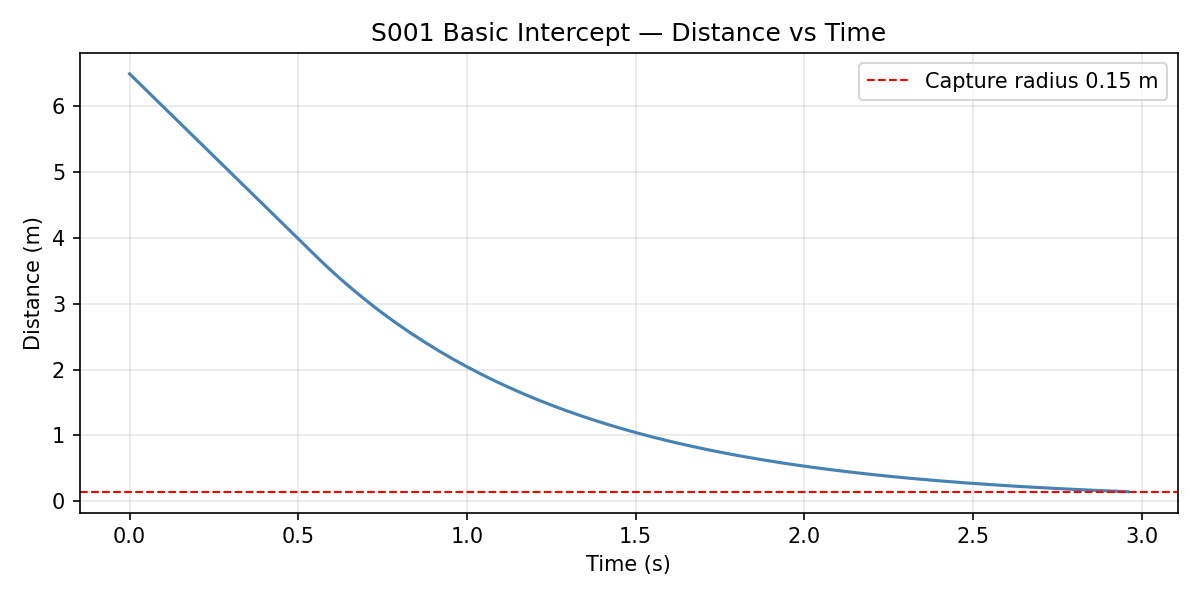
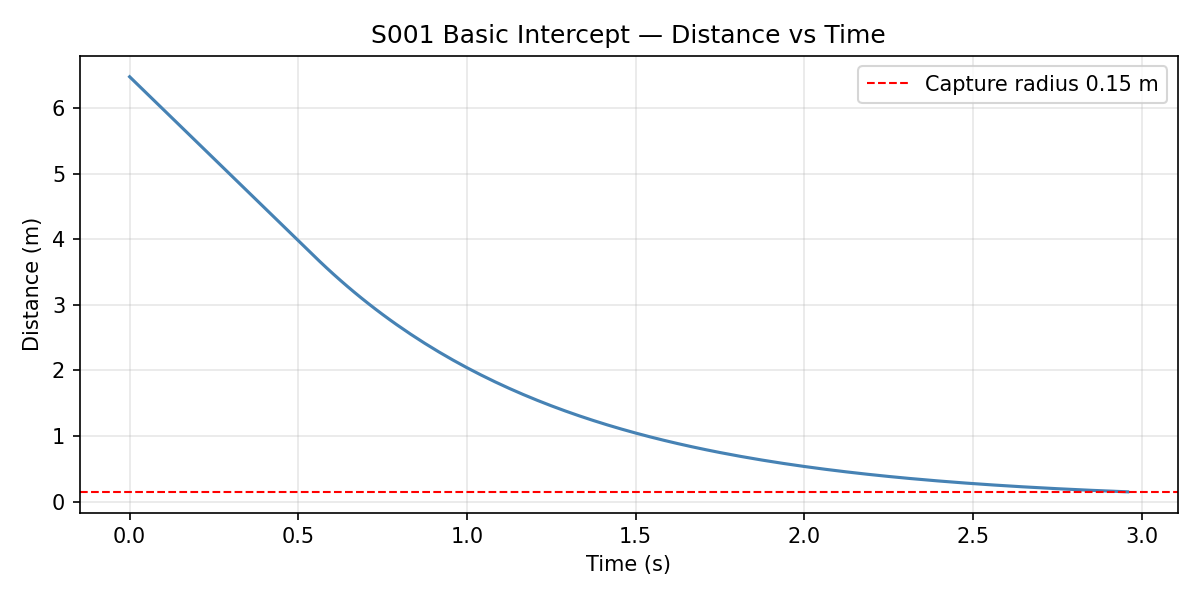
Fix S001 Basic Intercept: write full scenario card and correct README expectations
- [LOW] Scenario card was a 5-line stub; filled it with a full card (problem,
  math model, implementation, key parameters, expected output, extensions,
  related) consistent with the code
- [LOW] README claimed "expected 3-6 s" while capture is 2.96 s; replaced with
  the printed straight-line lower bound (1.27 s), saturated-flight time and an
  explanation of the PD exponential tail
- Script now prints initial distance, lower bound and saturated time so all
  README numbers come from the run output; added card-deviation subsection

diff --git a/src/01_pursuit_evasion/s001_basic_intercept.py b/src/01_pursuit_evasion/s001_basic_intercept.py
@@ -161,6 +161,12 @@ def save_animation(traj, out_dir):
 if __name__ == '__main__':
     traj, captured, capture_time = run_simulation()
 
+    d0 = np.linalg.norm(TARGET_POS - INIT_POS)
+    speeds = np.linalg.norm(np.diff(traj, axis=0), axis=1) / DT
+    t_sat = np.sum(speeds > MAX_SPEED - 1e-6) * DT
+    print(f'Initial distance: {d0:.3f} m')
+    print(f'Straight-line lower bound at v_max: {(d0 - CAPTURE_R) / MAX_SPEED:.2f} s')
+    print(f'Time flown at v_max (saturated): {t_sat:.2f} s')
     if captured:
         final_dist = np.linalg.norm(traj[-1] - TARGET_POS)
         print(f'Captured! Time: {capture_time:.2f}s, Distance: {final_dist:.3f}m')

diff --git a/scenarios/01_pursuit_evasion/S001_basic_intercept.md b/scenarios/01_pursuit_evasion/S001_basic_intercept.md
@@ -1,5 +1,126 @@
 # S001 Basic Intercept
 
-**Domain**: Pursuit & Evasion | **Difficulty**: ⭐ | **Status**: ✅ Completed
+**Domain**: Pursuit & Evasion | **Difficulty**: ⭐ | **Status**: `[x]` Completed
 
 → **[Full details, results, and visualizations](../../outputs/01_pursuit_evasion/s001_basic_intercept/)**
+
+---
+
+## Problem Definition
+
+**Setup**: A single pursuer drone starts at $(-2, -2, 1)$ m and must reach a stationary target at $(3, 2, 2)$ m. The start and target differ in all three axes, so the intercept is a genuine 3D flight.
+
+**Roles**:
+- **Pursuer**: closes on the target with a PD position controller (a simplified form of Proportional Navigation Guidance)
+- **Target**: stationary, no evasion
+
+**Objective**: minimise the time until the pursuer is within the capture radius; verify that the controller converges without overshoot.
+
+**Constraints**:
+- Pursuer speed limited to $v_{max} = 5$ m/s
+- Flight time limited to 30 s (battery)
+- Nominal arena $[-5, 5]^3$ m (not enforced — the straight-line path stays inside it)
+
+---
+
+## Mathematical Model
+
+### Point-Mass Kinematics
+
+The drone is a point mass whose velocity equals the (clamped) command, integrated with forward Euler at $\Delta t = 1/48$ s:
+
+$$\mathbf{v}_{k} = \text{clip}_{v_{max}}(\mathbf{v}_{cmd,k}), \qquad \mathbf{p}_{k+1} = \mathbf{p}_k + \mathbf{v}_k \, \Delta t$$
+
+where $\text{clip}_{v_{max}}(\mathbf{u}) = \mathbf{u} \cdot \min(1, v_{max}/\|\mathbf{u}\|)$.
+
+### PD Guidance (simplified PNG)
+
+Line-of-sight (error) vector:
+
+$$\mathbf{r}_k = \mathbf{p}_{target} - \mathbf{p}_k$$
+
+Velocity command, with damping on the previously applied velocity:
+
+$$\mathbf{v}_{cmd,k} = K_p \, \mathbf{r}_k - K_d \, \mathbf{v}_{k-1}, \qquad K_p = 2.0,\; K_d = 0.5$$
+
+Behaviour:
+- **Far from the target** the command exceeds $v_{max}$, so the pursuer flies straight at 5 m/s.
+- **Near the target** the command is unsaturated and settles to $\mathbf{v} \approx \frac{K_p}{1+K_d}\mathbf{r}$, so the distance decays exponentially with time constant $\tau = (1+K_d)/K_p = 0.75$ s.
+
+The full PNG law, $\mathbf{a}_{cmd} = N \, |\mathbf{v}_{closing}| \, \dot{\lambda} \, \hat{\mathbf{n}}$ with $N = 3$, is not used here (it is only meaningful against a moving target; see S002).
+
+### Capture Condition
+
+$$\|\mathbf{p}_k - \mathbf{p}_{target}\| < r_{capture} = 0.15 \text{ m}$$
+
+### Lower Bound
+
+A pursuer flying straight at $v_{max}$ the whole way would need
+
+$$T_{min} = \frac{\|\mathbf{p}_{target} - \mathbf{p}_0\| - r_{capture}}{v_{max}} = \frac{6.481 - 0.15}{5} = 1.27 \text{ s}$$
+
+The PD controller is slower than this bound because of its exponential tail.
+
+---
+
+## Implementation
+
+```python
+from src.base.drone_base import DroneBase   # point-mass, velocity clamp, Euler step
+
+drone = DroneBase(INIT_POS, max_speed=MAX_SPEED, dt=DT)
+for step in range(int(MAX_TIME / DT)):
+    error = TARGET_POS - drone.pos
+    if np.linalg.norm(error) < CAPTURE_R:
+        capture_time = step * DT
+        break
+    v_cmd = Kp * error + Kd * (-drone.vel)
+    drone.step(v_cmd)
+```
+
+Script: `src/01_pursuit_evasion/s001_basic_intercept.py` — functions `run_simulation()`, `plot_trajectory_3d()`, `plot_distance_time()`, `save_animation()`.
+
+---
+
+## Key Parameters
+
+| Parameter | Value | Notes |
+|-----------|-------|-------|
+| Pursuer start | (-2, -2, 1) m | |
+| Target position | (3, 2, 2) m | Stationary |
+| Max speed $v_{max}$ | 5 m/s | |
+| Capture radius | 0.15 m | |
+| Control frequency | 48 Hz | $\Delta t = 1/48$ s |
+| Max simulation time | 30 s | |
+| $K_p$ | 2.0 | proportional gain |
+| $K_d$ | 0.5 | damping gain (on previous velocity) |
+
+---
+
+## Expected Output
+
+- **3D trajectory plot** (`trajectory_3d.png`): straight red path from start to the green target star, capture point marked
+- **Distance vs time** (`distance_time.png`): linear decrease while saturated at $v_{max}$, then exponential decay to the capture radius
+- **Animation** (`animation.gif`)
+- Capture well inside the 30 s limit, between the 1.27 s lower bound and a few seconds (the exponential tail with $\tau = 0.75$ s dominates)
+
+---
+
+## Extensions
+
+1. Implement the full PNG law and compare against the PD controller (needs a moving target — see S002)
+2. Tune $K_p$/$K_d$ and plot capture time vs gain; compare with constant-speed pure pursuit (approaches $T_{min}$)
+3. Monte Carlo over random start positions inside the arena
+4. Battery constraint analysis: capture success rate vs initial distance
+
+---
+
+## Related Scenarios
+
+- Prerequisites: none (entry-level scenario)
+- Follow-ups: [S002](S002_evasive_maneuver.md), [S009](S009_differential_game.md)
+
+## References
+
+- Shneydor, N.A. (1998). *Missile Guidance and Pursuit*. Horwood.
+- [MATH_FOUNDATIONS.md §4.1](../../MATH_FOUNDATIONS.md)

diff --git a/outputs/01_pursuit_evasion/s001_basic_intercept/README.md b/outputs/01_pursuit_evasion/s001_basic_intercept/README.md
@@ -14,8 +14,8 @@
 
 **Constraints**:
 - Pursuer max speed: $v_{max} = 5$ m/s
-- Battery limit: 30 seconds max flight time
-- Arena bounds: $[-5, 5]^3$ m
+- Battery limit: 30 seconds max flight time (`MAX_TIME`)
+- Arena: nominally $[-5, 5]^3$ m; not enforced in code (the trajectory never leaves it)
 
 ---
 
@@ -31,7 +31,9 @@ Velocity command (PD control):
 
 $$\mathbf{v}_{cmd} = K_p \cdot \mathbf{r} + K_d \cdot (-\mathbf{v}_{pursuer})$$
 
-where $K_p = 2.0$, $K_d = 0.5$. The command is clamped to $v_{max} = 5$ m/s.
+where $K_p = 2.0$, $K_d = 0.5$ and $\mathbf{v}_{pursuer}$ is the velocity applied in the previous step (point-mass model, `DroneBase`). The command is clamped to $v_{max} = 5$ m/s and integrated with forward Euler.
+
+Once the command drops below $v_{max}$, the velocity settles to $\mathbf{v} \approx \frac{K_p}{1+K_d}\mathbf{r} = 1.33\,\mathbf{r}$, i.e. the distance decays exponentially with time constant $\tau = (1+K_d)/K_p = 0.75$ s.
 
 This is a position-error simplification of the full PNG law:
 
@@ -74,19 +76,31 @@ python src/01_pursuit_evasion/s001_basic_intercept.py
 
 ## Results
 
-**Capture time: 2.96 s** ✅ (expected 3–6 s)
+| Quantity | Value |
+|----------|-------|
+| Initial distance | 6.481 m |
+| Straight-line lower bound at $v_{max}$, $(d_0 - r_{capture})/v_{max}$ | 1.27 s |
+| Time flown saturated at $v_{max}$ | 0.56 s |
+| **Capture time** | **2.96 s** |
+| Distance at capture | 0.148 m |
 
-**3D Trajectory** — pursuer (red) flies directly toward the stationary target (green star):
+The capture time is about 2.3× the straight-line lower bound. The pursuer flies at full speed for only the first 0.56 s (covering ~2.8 m); after that the PD command falls below $v_{max}$ and the remaining ~3.7 m closes exponentially with $\tau = 0.75$ s ($0.75 \cdot \ln(3.7/0.15) \approx 2.4$ s), which is where most of the time goes. A higher $K_p$ (or a pure-pursuit command at constant $v_{max}$) would approach the 1.27 s bound.
+
+**3D Trajectory** — pursuer (red) flies along a straight line to the stationary target (green star); the black X marks the capture point:
 
 ![3D Trajectory](trajectory_3d.png)
 
-**Distance vs Time** — monotonically decreasing, confirming the controller works correctly:
+**Distance vs Time** — linear decrease while saturated at 5 m/s (0–0.56 s), then an exponential tail down to the 0.15 m capture radius:
 
 ![Distance vs Time](distance_time.png)
 
 **Animation**:
 
 ![Animation](animation.gif)
+
+### Deviations from the scenario card
+
+None. The scenario card was previously an empty stub; it has been filled in from this implementation, so all parameters match. Note that the method is described as "simplified PNG": the code uses a PD position controller, not the full proportional-navigation law (listed as an extension).
 
 ---
 
